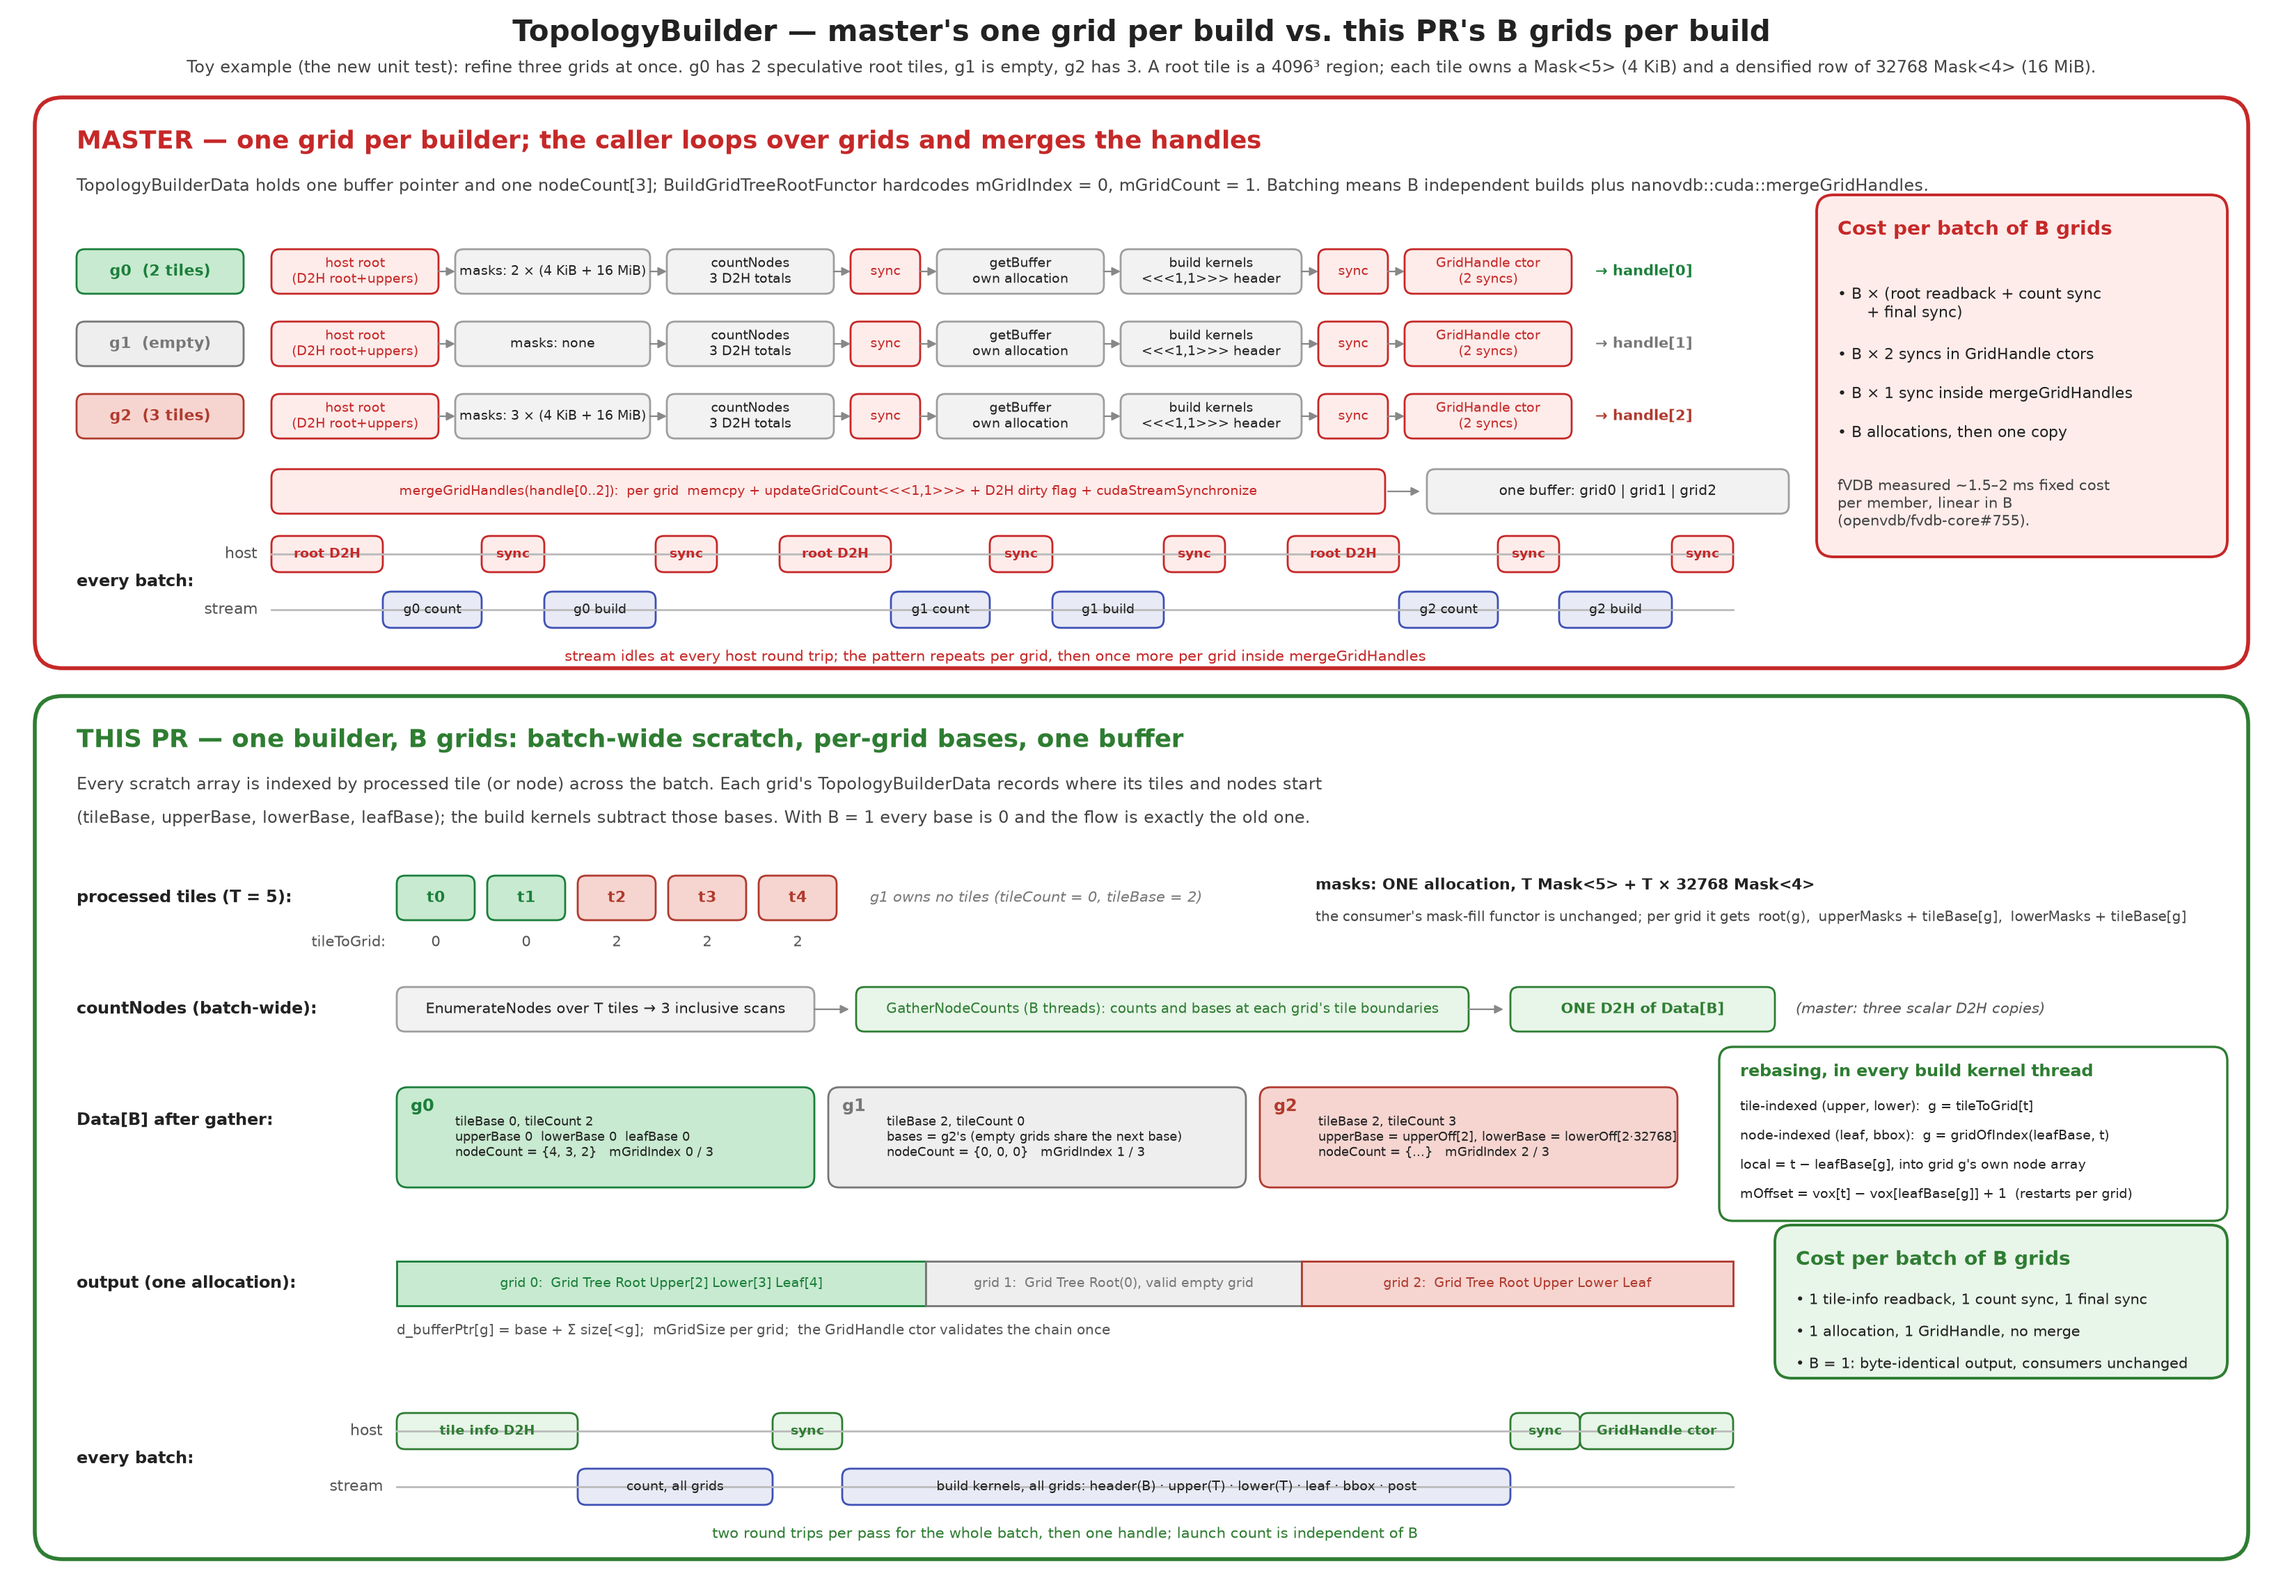
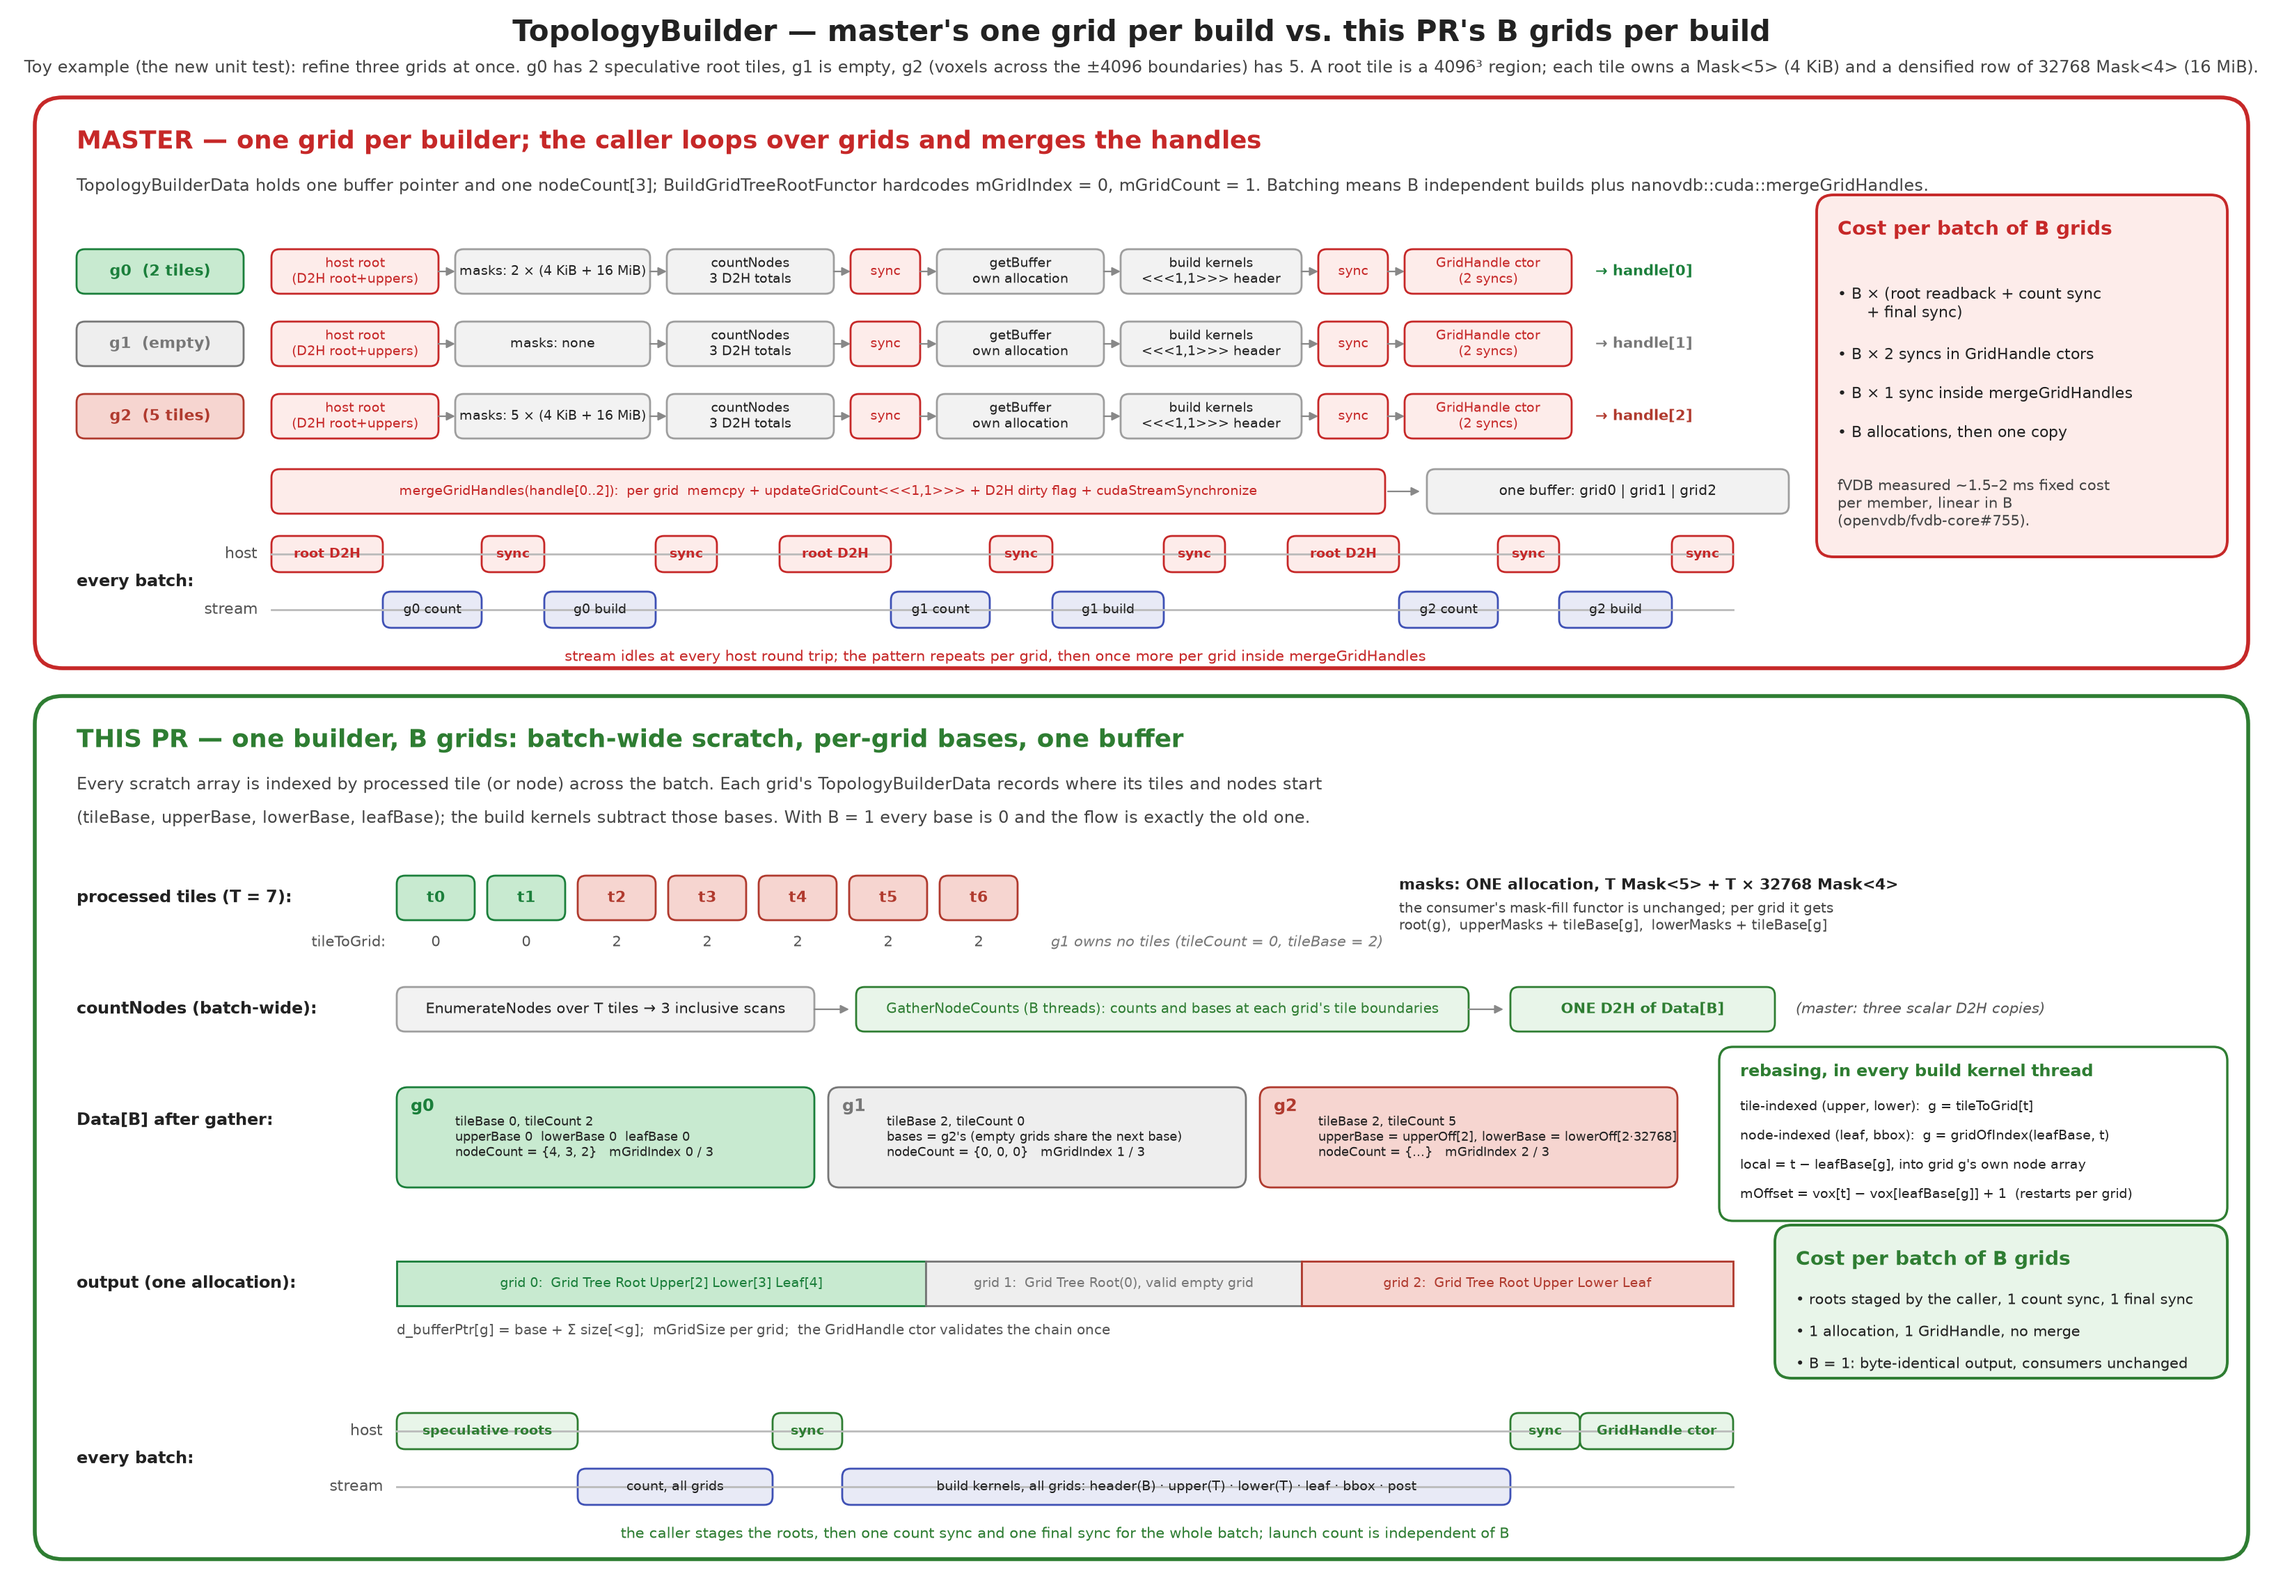
Match the unit test (g2 spans 5 tiles, T = 7); the caller stages the roots

diff --git a/topo_batch_diagram.py b/topo_batch_diagram.py
@@ -48,7 +48,7 @@ def timeline(x, y, w, label_host, label_stream, host_items, stream_items):
 
 # ---------------------------------------------------------------- title
 txt(82, 111.6, "TopologyBuilder — master's one grid per build vs. this PR's B grids per build", fs=15, bold=True, ha="center")
-txt(82, 109.1, "Toy example (the new unit test): refine three grids at once. g0 has 2 speculative root tiles, g1 is empty, g2 has 3. "
+txt(82, 109.1, "Toy example (the new unit test): refine three grids at once. g0 has 2 speculative root tiles, g1 is empty, g2 (voxels across the ±4096 boundaries) has 5. "
     "A root tile is a 4096³ region; each tile owns a Mask<5> (4 KiB) and a densified row of 32768 Mask<4> (16 MiB).", fs=8.5, ha="center", color="#444")
 
 # ================================================================ MASTER panel
@@ -61,7 +61,7 @@ txt(PX + 3, PY + PH - 6.4, "TopologyBuilderData holds one buffer pointer and one
 # three per-grid pipelines, stacked
 rows = [("g0  (2 tiles)", G0, G0F, "masks: 2 × (4 KiB + 16 MiB)", "Data: nodeCount, d_bufferPtr"),
         ("g1  (empty)",   G1, G1F, "masks: none",                 "Data: zeros"),
-        ("g2  (3 tiles)", G2, G2F, "masks: 3 × (4 KiB + 16 MiB)", "Data: nodeCount, d_bufferPtr")]
+        ("g2  (5 tiles)", G2, G2F, "masks: 5 × (4 KiB + 16 MiB)", "Data: nodeCount, d_bufferPtr")]
 y0 = PY + PH - 12.5
 for i, (name, c, cf, m, d) in enumerate(rows):
     y = y0 - i * 5.2
@@ -115,18 +115,18 @@ txt(PX2 + 3, PY2 + PH2 - 8.8, "(tileBase, upperBase, lowerBase, leafBase); the b
 
 # processed tiles row
 ry = PY2 + PH2 - 14.5
-txt(PX2 + 3, ry, "processed tiles (T = 5):", fs=8.5, bold=True)
-tiles = [("t0", G0, G0F, 0), ("t1", G0, G0F, 0), ("t2", G2, G2F, 2), ("t3", G2, G2F, 2), ("t4", G2, G2F, 2)]
+txt(PX2 + 3, ry, "processed tiles (T = 7):", fs=8.5, bold=True)
+tiles = [("t0", G0, G0F, 0), ("t1", G0, G0F, 0), ("t2", G2, G2F, 2), ("t3", G2, G2F, 2), ("t4", G2, G2F, 2), ("t5", G2, G2F, 2), ("t6", G2, G2F, 2)]
 tx = PX2 + 26
 for i, (t, c, cf, g) in enumerate(tiles):
     box(tx + i * 6.5, ry - 1.6, 5.6, 3.2, t, fc=cf, ec=c, fs=8, bold=True, color=c)
     txt(tx + i * 6.5 + 2.8, ry - 3.2, str(g), fs=7.5, ha="center", color="#555")
 txt(tx - 0.8, ry - 3.2, "tileToGrid:", fs=7.5, ha="right", color="#555")
-txt(tx + 34, ry, "g1 owns no tiles (tileCount = 0, tileBase = 2)", fs=7.5, color=G1, style="italic")
+txt(tx + 47, ry - 3.2, "g1 owns no tiles (tileCount = 0, tileBase = 2)", fs=7.5, color=G1, style="italic")
 
 # masks
-txt(tx + 66, ry + 0.9, "masks: ONE allocation, T Mask<5> + T × 32768 Mask<4>", fs=8, bold=True)
-txt(tx + 66, ry - 1.4, "the consumer's mask-fill functor is unchanged; per grid it gets  root(g),  upperMasks + tileBase[g],  lowerMasks + tileBase[g]", fs=7.3, color="#444")
+txt(tx + 72, ry + 0.9, "masks: ONE allocation, T Mask<5> + T × 32768 Mask<4>", fs=8, bold=True)
+txt(tx + 72, ry - 1.4, "the consumer's mask-fill functor is unchanged; per grid it gets\nroot(g),  upperMasks + tileBase[g],  lowerMasks + tileBase[g]", fs=7.3, color="#444")
 
 # scans row
 sy = ry - 8
@@ -143,7 +143,7 @@ dy = sy - 9.2
 txt(PX2 + 3, dy + 1.2, "Data[B] after gather:", fs=8.5, bold=True)
 datas = [("g0", G0, G0F, "tileBase 0, tileCount 2\nupperBase 0  lowerBase 0  leafBase 0\nnodeCount = {4, 3, 2}   mGridIndex 0 / 3"),
          ("g1", G1, G1F, "tileBase 2, tileCount 0\nbases = g2's (empty grids share the next base)\nnodeCount = {0, 0, 0}   mGridIndex 1 / 3"),
-         ("g2", G2, G2F, "tileBase 2, tileCount 3\nupperBase = upperOff[2], lowerBase = lowerOff[2·32768]\nnodeCount = {…}   mGridIndex 2 / 3")]
+         ("g2", G2, G2F, "tileBase 2, tileCount 5\nupperBase = upperOff[2], lowerBase = lowerOff[2·32768]\nnodeCount = {…}   mGridIndex 2 / 3")]
 for i, (n, c, cf, s) in enumerate(datas):
     x = tx + i * 31
     box(x, dy - 3.6, 30, 7.2, "", fc=cf, ec=c, r=0.8)
@@ -172,16 +172,16 @@ txt(rx + 1.5, rY - 4.6, "mOffset = vox[t] − vox[leafBase[g]] + 1  (restarts pe
 # timeline PR
 ty2 = PY2 + 5.2
 timeline(tx, ty2, 96, "host", "stream",
-         host_items=[(0, 13, "tile info D2H", GRNF, GRN, GRN), (27, 32, "sync", GRNF, GRN, GRN), (80, 85, "sync", GRNF, GRN, GRN), (85, 96, "GridHandle ctor", GRNF, GRN, GRN)],
+         host_items=[(0, 13, "speculative roots", GRNF, GRN, GRN), (27, 32, "sync", GRNF, GRN, GRN), (80, 85, "sync", GRNF, GRN, GRN), (85, 96, "GridHandle ctor", GRNF, GRN, GRN)],
          stream_items=[(13, 27, "count, all grids", BLUF, BLU, INK), (32, 80, "build kernels, all grids: header(B) · upper(T) · lower(T) · leaf · bbox · post", BLUF, BLU, INK)])
-txt(tx + 48, ty2 - 3.4, "two round trips per pass for the whole batch, then one handle; launch count is independent of B", fs=7.5, color=GRN, ha="center")
+txt(tx + 48, ty2 - 3.4, "the caller stages the roots, then one count sync and one final sync for the whole batch; launch count is independent of B", fs=7.5, color=GRN, ha="center")
 txt(PX2 + 3, ty2 + 2, "every batch:", fs=8.5, bold=True)
 
 # cost callout PR
 cx, cy, cw, ch = tx + 99, oy - 6.8, 32.5, 11
 box(cx, cy, cw, ch, "", fc=GRNF, ec=GRN, lw=1.4, r=1.2)
 txt(cx + 1.5, cy + ch - 2.5, "Cost per batch of B grids", fs=10, bold=True, color=GRN)
-txt(cx + 1.5, cy + ch - 5.4, "• 1 tile-info readback, 1 count sync, 1 final sync", fs=7.4)
+txt(cx + 1.5, cy + ch - 5.4, "• roots staged by the caller, 1 count sync, 1 final sync", fs=7.4)
 txt(cx + 1.5, cy + ch - 7.7, "• 1 allocation, 1 GridHandle, no merge", fs=7.4)
 txt(cx + 1.5, cy + ch - 10.0, "• B = 1: byte-identical output, consumers unchanged", fs=7.4)
 
